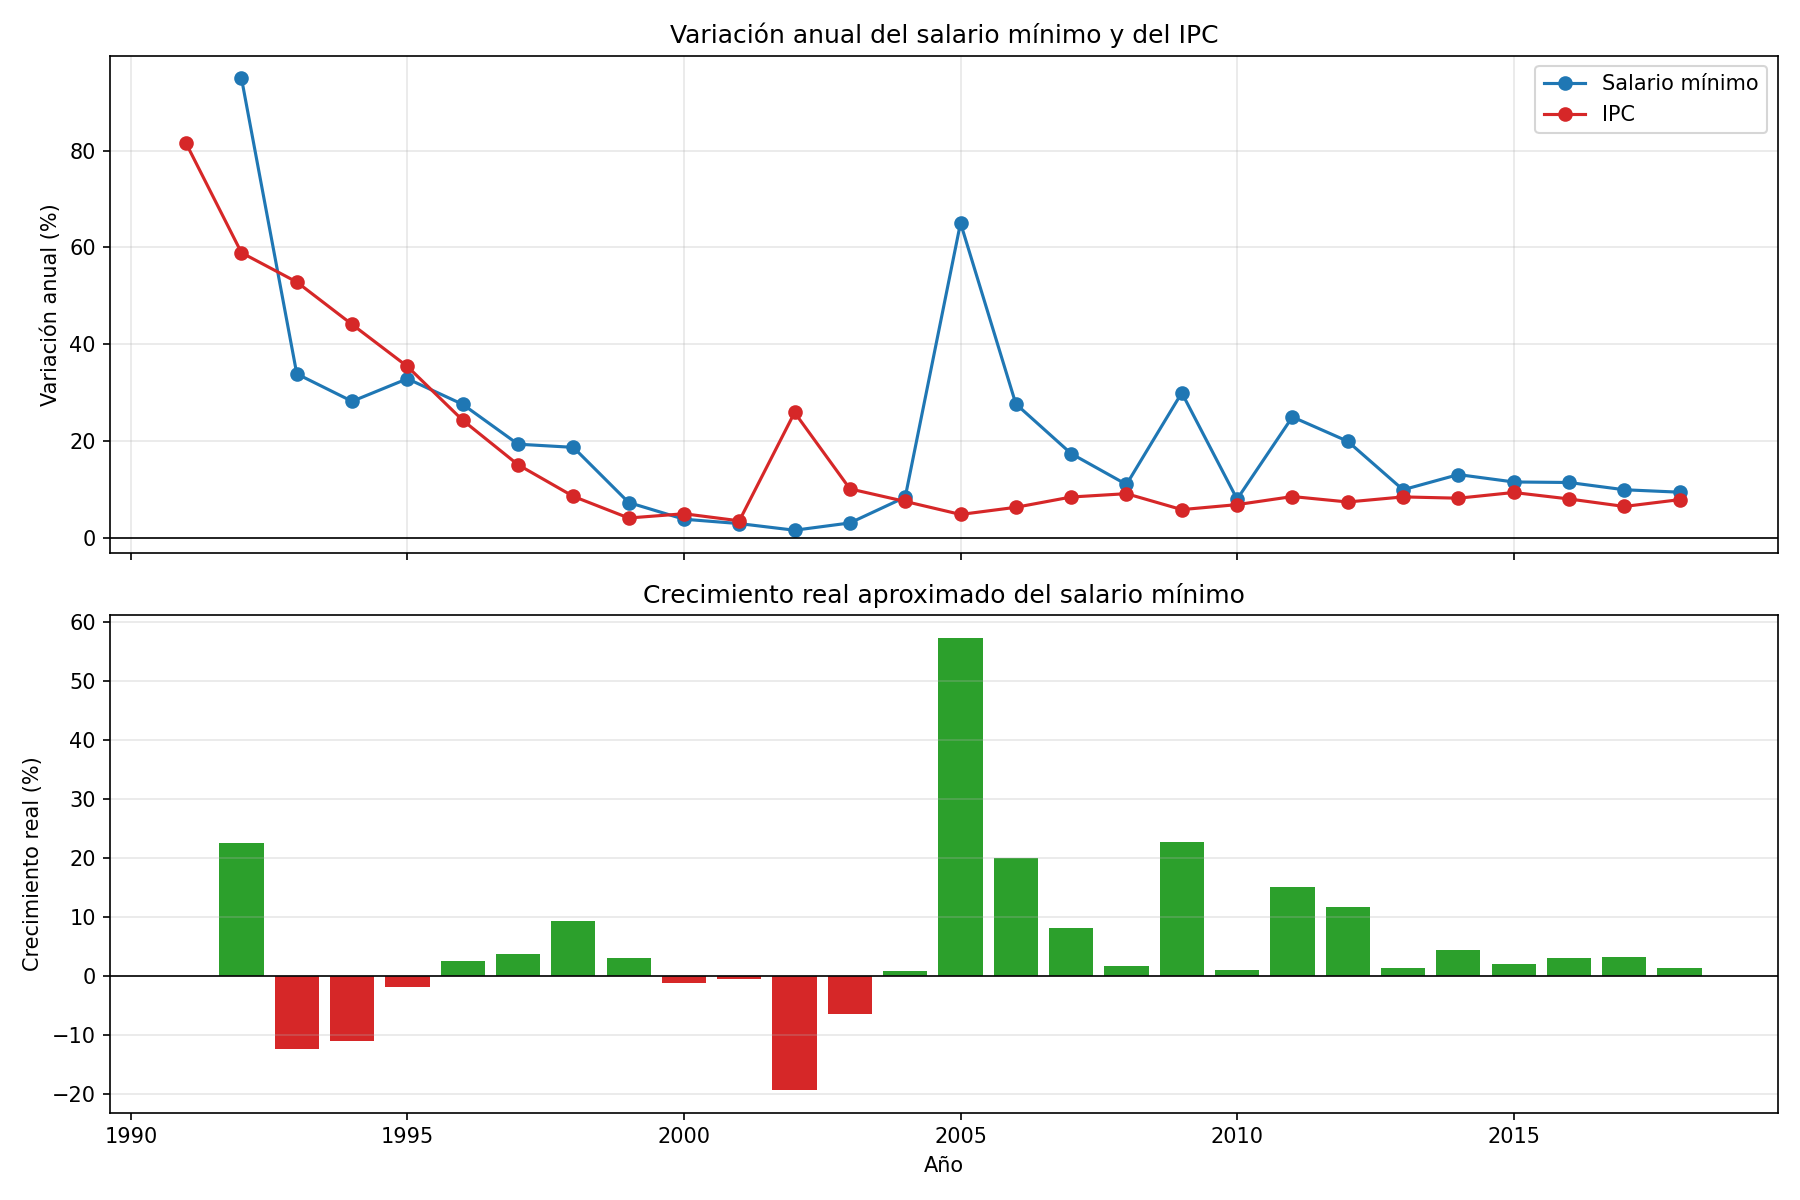
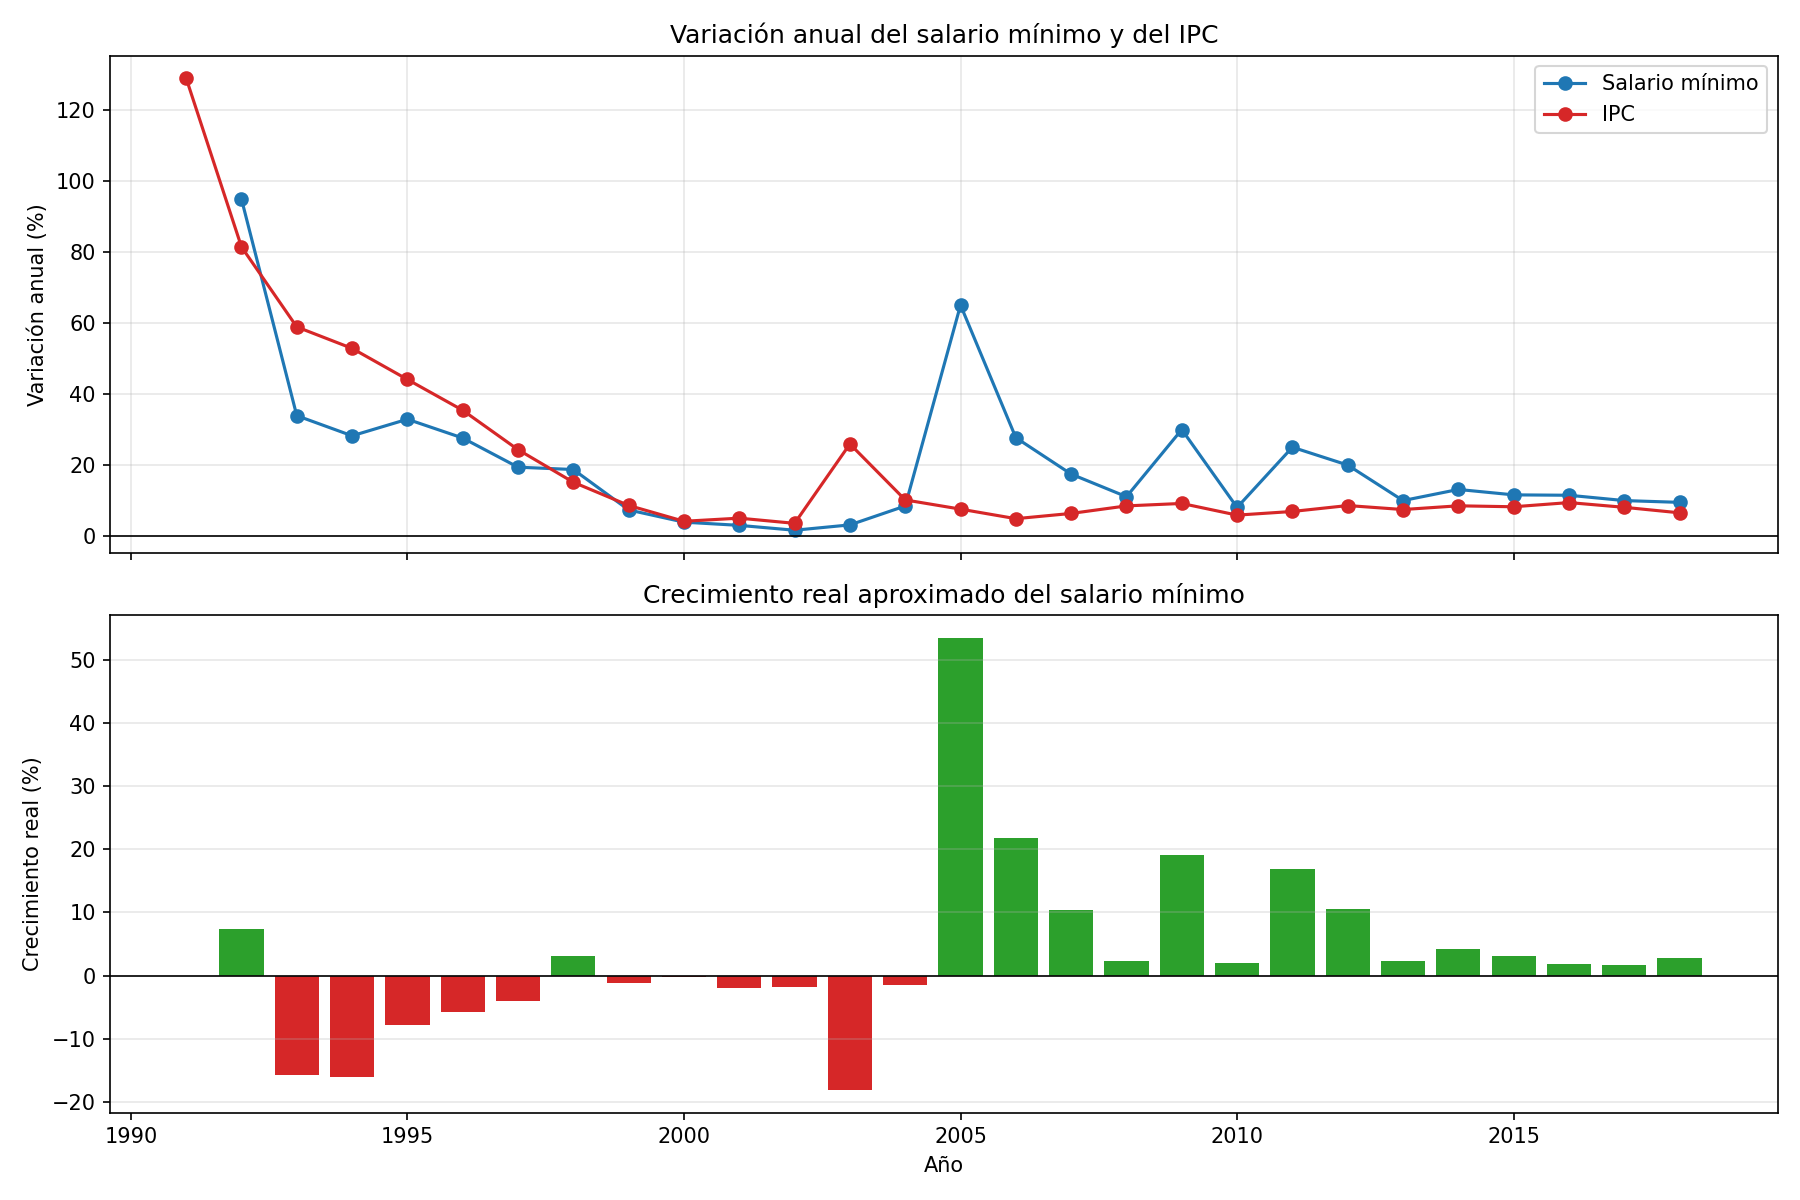
Add Activity 03 documentation and script for analyzing Salario Mínimo and IPC metrics, including data processing steps, results, and limitations

diff --git a/Actividad03/actividad03.py b/Actividad03/actividad03.py
@@ -21,7 +21,6 @@
 # =============================================================================
 
 import re
-from datetime import date
 from pathlib import Path
 
 import pandas as pd
@@ -31,6 +30,7 @@ import matplotlib.pyplot as plt
 RUTA_SALARIO = Path("Actividad02/salario_minimo_clean.parquet")
 RUTA_IPC = Path("Actividad03/IPC gral y variaciones_base 2022.xlsx")
 RUTA_IPC_ANUAL = Path("Actividad03/ipc_anual.parquet")
+RUTA_METRICAS = Path("Actividad03/salario_ipc_metricas.parquet")
 
 
 def numero_uruguayo(valor):
@@ -54,31 +54,6 @@ def numero_uruguayo(valor):
         return float(texto)
     except ValueError:
         return None
-
-
-def extraer_ano(valor):
-    """Obtiene el año desde un año numerico o desde una fecha del Excel."""
-    if pd.isna(valor):
-        return None
-
-    if isinstance(valor, (pd.Timestamp,  date)):
-        return valor.year
-
-    if isinstance(valor, (int, float)) and not isinstance(valor, bool):
-        if 1900 <= valor <= 2100:
-            return int(valor)
-        if 1000 <= valor <= 60000:
-            return pd.to_datetime(
-                valor, unit="D", origin="1899-12-30"
-            ).year
-
-    texto = str(valor).strip()
-    coincidencia = re.search(r"(19|20)\d{2}", texto)
-    if coincidencia:
-        return int(coincidencia.group(0))
-
-    numero = numero_uruguayo(valor)
-    return int(numero) if numero is not None else None
 
 
 def leer_salario_minimo():
@@ -120,9 +95,11 @@ def leer_ipc():
     )
     ipc = ipc.dropna(how="all").copy()
 
-    # El periodo viene como una fecha mensual, por ejemplo 1937-07-01.
+    # El periodo viene como una fecha mensual, por ejemplo 1937-07-01. Al
+    # venir ya como fecha real (no como texto ni como numero serial de
+    # Excel), alcanza con pedirle el año a pandas directamente.
     ipc["periodo"] = pd.to_datetime(ipc["periodo"], errors="coerce")
-    ipc["año"] = ipc["periodo"].map(extraer_ano)
+    ipc["año"] = ipc["periodo"].dt.year
     ipc["indice_general"] = ipc["indice_general"].map(numero_uruguayo)
     ipc["ipc_ultimos_12_meses"] = ipc["ipc_ultimos_12_meses"].map(numero_uruguayo)
 
@@ -206,28 +183,32 @@ def main():
     print(f"Maximo: ${salario['salario_minimo'].max():,.2f}")
     print(f"Promedio: ${salario['salario_minimo'].mean():,.2f}")
 
-    # Se usa una clave textual de cuatro digitos para evitar que diferencias
-    # entre int64, Int64 o valores provenientes de fechas impidan la union.
-    salario["clave_ano"] = salario["año"].astype(str).str.extract(
-        r"((?:19|20)\d{2})", expand=False
-    )
-    ipc["clave_ano"] = ipc["año"].astype(str).str.extract(
-        r"((?:19|20)\d{2})", expand=False
-    )
+    # El salario minimo del indicador 10454 rige desde el 1° de enero de
+    # cada año (ver README de Actividad 2). Su variacion interanual, por
+    # lo tanto, cubre el periodo entre el 1° de enero del año N-1 y el 1°
+    # de enero del año N, es decir: aproximadamente el año calendario N-1
+    # completo. Para comparar peras con peras, hay que usarla contra la
+    # inflacion de ESE mismo periodo (el IPC del año N-1), no contra el
+    # IPC de diciembre del año N, que todavia no habia ocurrido cuando se
+    # fijo el salario de enero de N.
+    #
+    # Por eso, antes de unir, se corre el año del IPC un año hacia
+    # adelante: la fila que en ipc_anual dice "año 1990" (variacion de
+    # precios de dic-1989 a dic-1990) pasa a juntarse con el salario del
+    # "año 1991" (variacion de salario de ene-1990 a ene-1991). Sin este
+    # corrimiento, se estaria comparando el ajuste de salario de enero
+    # contra una inflacion que llega hasta 11-12 meses despues.
+    ipc_comparable = ipc.rename(columns={"año": "año_ipc_base"})
+    ipc_comparable["año"] = ipc_comparable["año_ipc_base"] + 1
 
-    datos = salario.merge(ipc, on="clave_ano", how="inner", suffixes=("_salario", "_ipc"))
-    datos["año"] = datos["año_salario"]
+    datos = salario.merge(ipc_comparable, on="año", how="inner")
     if datos.empty:
-        anos_salario = sorted(salario["clave_ano"].dropna().unique())
-        anos_ipc = sorted(ipc["clave_ano"].dropna().unique())
         raise ValueError(
-            "No hay años en común entre las fuentes. "
-            f"Salario: {salario['año'].min()}-{salario['año'].max()}; "
-            f"IPC: {ipc['año'].min()}-{ipc['año'].max()}. "
-            f"Ejemplos salario: {anos_salario[:5]} ... {anos_salario[-5:]}; "
-            f"ejemplos IPC: {anos_ipc[:5]} ... {anos_ipc[-5:]}"
+            "No hay años en común entre las fuentes tras alinear los "
+            f"periodos. Salario: {salario['año'].min()}-{salario['año'].max()}; "
+            f"IPC (corrido +1 año): {ipc_comparable['año'].min()}-"
+            f"{ipc_comparable['año'].max()}."
         )
-    datos = datos.drop(columns=["clave_ano", "año_salario", "año_ipc"])
     datos["variacion_salario_%"] = datos["salario_minimo"].pct_change() * 100
     datos["crecimiento_real_aprox_%"] = (
         (1 + datos["variacion_salario_%"] / 100)
@@ -235,21 +216,47 @@ def main():
         - 1
     ) * 100
 
-    print("\nDATOS CONECTADOS POR AÑO")
-    print(datos.to_string(index=False))
+    # La tabla completa (con las columnas auxiliares de trabajo, como
+    # "periodo" o "año_ipc_base") se guarda en Parquet en vez de
+    # imprimirse entera en consola: es un dato consultable después, no
+    # algo para leer de corrida en 28 filas x 9 columnas cada vez que se
+    # corre el script. La consola muestra solo el resumen de negocio.
+    datos.to_parquet(RUTA_METRICAS, engine="pyarrow", index=False)
+    print(f"\nTabla conectada (salario + IPC + métricas) guardada en: {RUTA_METRICAS}")
+
     generar_grafica(datos)
 
-    print("\nCONCLUSION")
+    crecimiento_real = datos["crecimiento_real_aprox_%"].dropna()
+    anios_con_dato = len(crecimiento_real)
+    anios_ganancia_real = (crecimiento_real > 0).sum()
+    anios_perdida_real = (crecimiento_real < 0).sum()
+
+    print("\nRESUMEN: CRECIMIENTO REAL DEL SALARIO MINIMO (vs. IPC)")
     print(
-        "La union permite comparar el aumento nominal del salario minimo "
-        "con la variacion anual del IPC. La columna "
-        "'crecimiento_real_aprox_%' estima si el salario crecio por encima "
-        "o por debajo de los precios en cada año compartido."
+        f"Años con dato comparable: {anios_con_dato} "
+        f"({datos['año'].iloc[1]}-{datos['año'].iloc[-1]})"
     )
     print(
-        "Esta es una aproximacion: para medir poder adquisitivo con mayor "
-        "precision habria que usar la fecha exacta de cada ajuste salarial "
-        "y el IPC del mismo periodo."
+        f"Años con ganancia real (creció por encima del IPC): {anios_ganancia_real}"
+    )
+    print(
+        f"Años con pérdida real (el IPC le ganó): {anios_perdida_real}"
+    )
+    print(f"Crecimiento real promedio por año: {crecimiento_real.mean():.2f}%")
+    fila_peor = datos.loc[datos["crecimiento_real_aprox_%"].idxmin()]
+    fila_mejor = datos.loc[datos["crecimiento_real_aprox_%"].idxmax()]
+    print(
+        f"Peor año (real): {int(fila_peor['año'])} "
+        f"({fila_peor['crecimiento_real_aprox_%']:.2f}%)"
+    )
+    print(
+        f"Mejor año (real): {int(fila_mejor['año'])} "
+        f"({fila_mejor['crecimiento_real_aprox_%']:.2f}%)"
+    )
+    print(
+        "\nNota: 'crecimiento real' es una aproximación de calendario "
+        "(ver README, sección Limitaciones), no un ajuste con la fecha "
+        "exacta de cada resolución salarial."
     )
 
 

diff --git a/Actividad03/Actividad03.md b/Actividad03/Actividad03.md
@@ -1,0 +1,114 @@
+# Actividad 03 - Métricas de Salario Mínimo e IPC
+
+Repositorio: <https://github.com/cardo88/UCU-BigData-2026.git>
+
+## Objetivo
+
+Conectar el Salario Mínimo Nacional (SMN) de Uruguay con el Índice de
+Precios al Consumo (IPC) para analizar la evolución nominal del salario y
+una aproximación de su **crecimiento real** año a
+año, algo que la Actividad02 dejó pendiente al trabajar el SMN de forma
+aislada, en pesos corrientes sin ajustar.
+
+## Acciones mínimas de análisis
+
+**Proceso de carga**: Python 3, `pandas`, `pyarrow`, `openpyxl` y
+`matplotlib`, sobre el venv del repo. Se combinan dos fuentes:
+
+- **Salario mínimo**: no se vuelve a leer el XML original — se reutiliza
+  `Actividad02/salario_minimo_clean.parquet` (ya limpio y tipado por la
+  Actividad02), evitando repetir esa lectura/limpieza.
+- **IPC**: archivo oficial del INE, *Series históricas IPC — base octubre
+  2022* (`IPC gral y variaciones_base 2022.xlsx`), IPC general del Total
+  País con serie histórica desde julio de 1937. Es mensual; se resume a un
+  valor por año tomando el último mes disponible de cada año (diciembre en
+  los años completos).
+
+```bash
+source .venv/bin/activate
+python -m pip install pandas pyarrow openpyxl matplotlib
+python Actividad03/actividad03.py
+```
+
+El script (`actividad03.py`) lee ambas fuentes, genera `ipc_anual.parquet`
+(IPC resumido a una fila por año), conecta ambos datasets por año, calcula
+las métricas, guarda el resultado en `salario_ipc_metricas.parquet` y genera
+el gráfico `analisis_salario_ipc.png`.
+
+**Punto clave de calidad de datos — alineación de períodos antes de unir**:
+el salario mínimo rige desde el 1° de enero de cada año, así que su
+variación interanual cubre aproximadamente el año calendario *anterior*
+completo. Compararla directamente contra el IPC de diciembre del mismo año
+compararía el ajuste de salario de enero contra una inflación que en su
+mayoría todavía no había ocurrido. Por eso, antes de unir las tablas, el año
+del IPC se corre un año hacia adelante (columna `año_ipc_base`), de forma
+que cada salario se compare contra la inflación del período que realmente
+lo precedió. `ipc_anual.parquet` se guarda sin este corrimiento, para poder
+inspeccionarlo o reutilizarlo de forma directa; el corrimiento se aplica
+solo al armar la tabla conectada.
+
+**Métrica principal**:
+
+```text
+crecimiento real aproximado =
+((1 + variación del salario) / (1 + variación del IPC) - 1) * 100
+```
+
+Positivo: el salario le ganó a los precios. Negativo: los precios le
+ganaron al salario.
+
+## Resultados
+
+Se calculan mínimo, máximo y promedio histórico del salario mínimo, la
+variación anual del salario y del IPC, y el crecimiento real aproximado por
+año. La tabla completa conectada (28 filas x 9 columnas) queda en
+`salario_ipc_metricas.parquet` — no se imprime entera en consola por ser
+poco legible en una terminal; la consola muestra solo un resumen de
+negocio: cuántos años el salario le ganó o le perdió al IPC, el crecimiento
+real promedio, y el mejor y el peor año del período.
+
+El gráfico (adjunto en esta entrega como `analisis_salario_ipc.png`) tiene
+dos paneles: arriba compara la variación anual del salario mínimo contra la
+del IPC; abajo muestra el crecimiento real aproximado, con barras verdes
+para los años en que el salario creció por encima de la inflación y rojas
+para los años en que perdió poder adquisitivo frente a ella.
+
+## Limitaciones
+
+Es una aproximación a nivel anual, no exacta a nivel de fecha: no usa la
+fecha exacta de cada ajuste salarial (que en la práctica podría no ser
+siempre el 1° de enero) ni el IPC del mes exacto correspondiente. Además,
+la base "octubre 2022 = 100" del IPC es solo una escala de referencia — no
+implica que los precios fueran 100 pesos —, y no afecta a las variaciones
+porcentuales usadas en el análisis.
+
+## Uso de IA como apoyo
+
+Se utilizó asistencia de IA (Claude, Anthropic) para mejorar la redacción
+de este documento y como apoyo en la sintaxis del código. El criterio de
+resolución, la decisión de alinear los períodos antes de conectar los
+datasets, y la interpretación de los resultados son propios.
+
+---
+
+## Anexo
+
+### A. Archivos adjuntos
+
+Junto a este documento se adjunta, en el zip de entrega:
+
+- `analisis_salario_ipc.png`: gráfico referenciado en la sección de
+  Resultados.
+
+### B. Código completo del script
+
+El script no se adjunta en esta entrega — está disponible en el
+repositorio del curso:
+
+- <https://github.com/cardo88/UCU-BigData-2026/blob/main/Actividad03/actividad03.py>
+
+### C. Fuente del IPC
+
+Instituto Nacional de Estadística (INE) — Series históricas IPC, base
+octubre 2022:
+<https://www.gub.uy/instituto-nacional-estadistica/datos-y-estadisticas/estadisticas/series-historicas-ipc-base-octubre-2022100>

diff --git a/Actividad03/README.md b/Actividad03/README.md
@@ -90,13 +90,22 @@ Ese archivo contiene una fila por año y es el que se conecta con
 El script también genera:
 
 ```text
+Actividad03/salario_ipc_metricas.parquet
 Actividad03/analisis_salario_ipc.png
 ```
 
-La imagen tiene dos paneles: arriba compara las variaciones anuales del
-salario mínimo y del IPC; abajo muestra el crecimiento real aproximado del
-salario. Las barras verdes indican crecimiento por encima del IPC y las rojas
-indican pérdida aproximada de poder adquisitivo.
+`salario_ipc_metricas.parquet` es la tabla completa ya conectada (salario,
+IPC, variaciones y crecimiento real por año) — es el resultado final para
+consultar o reutilizar después, y por eso **no** se imprime entera en
+consola (28 filas x 9 columnas no se leen cómodo en una terminal). La
+consola solo muestra un resumen de negocio: cuántos años el salario le ganó
+o le perdió al IPC, el crecimiento real promedio, y el mejor/peor año.
+
+`analisis_salario_ipc.png` tiene dos paneles: arriba compara las
+variaciones anuales del salario mínimo y del IPC; abajo muestra el
+crecimiento real aproximado del salario. Las barras verdes indican
+crecimiento por encima del IPC y las rojas indican pérdida aproximada de
+poder adquisitivo.
 
 ## Cómo se conectan los datos
 
@@ -105,7 +114,27 @@ Para obtener una observación anual, el script ordena los registros por fecha y
 conserva el último mes disponible de cada año, normalmente diciembre. Esto
 permite inspeccionar y reutilizar la transformación sin volver a leer el Excel.
 
-Luego ambas fuentes se unen mediante `año`.
+### Alineación de los períodos antes de unir
+
+El salario mínimo rige desde el **1° de enero** de cada año (ver README de
+Actividad 2). Su variación interanual —`salario[N] / salario[N-1] - 1`— cubre
+entonces el período entre el 1° de enero de `N-1` y el 1° de enero de `N`, es
+decir, aproximadamente el **año calendario `N-1` completo**.
+
+Si esa variación se comparara contra el IPC de diciembre del año `N` (como se
+hacía en una primera versión de este script), se estaría comparando el ajuste
+de salario de enero contra una inflación que en su mayor parte todavía no
+había ocurrido cuando se fijó ese salario. Por eso, antes de unir, el año del
+IPC se corre un año hacia adelante: la fila que en `ipc_anual.parquet` dice
+"año 1990" (variación de precios de diciembre de 1989 a diciembre de 1990) se
+une con el salario del "año 1991" (variación de salario de enero de 1990 a
+enero de 1991), que cubre aproximadamente el mismo período.
+
+`ipc_anual.parquet` se guarda **sin** este corrimiento (con el año real de
+cada observación), para que se pueda inspeccionar o reutilizar de forma
+directa. El corrimiento se aplica únicamente al armar la tabla unida
+(`datos`), donde la columna `año_ipc_base` deja explícito qué año de IPC
+quedó asociado a cada fila.
 
 La métrica principal es:
 
@@ -123,9 +152,11 @@ Interpretación:
 ## Limitaciones
 
 Esta métrica es una aproximación. El salario mínimo de la fuente es anual y
-corresponde al valor legal del año, mientras que el IPC es mensual. Una
-comparación más precisa debería usar la fecha exacta de cada ajuste del salario
-mínimo y el IPC correspondiente al mismo período.
+corresponde al valor legal vigente desde el 1° de enero, mientras que el IPC
+es mensual. El corrimiento de un año descrito arriba alinea los períodos a
+nivel anual, pero sigue siendo una aproximación de calendario: no usa la
+fecha exacta de cada ajuste salarial (que en la práctica podría no ser
+siempre el 1° de enero) ni el IPC del mes exacto correspondiente.
 
 Además, la base octubre 2022 = 100 es solamente una escala de referencia: no
 significa que los precios fueran de 100 pesos. Las variaciones porcentuales no
@@ -138,7 +169,11 @@ dependen de esa escala.
 1. lee `salario_minimo_clean.parquet` de Actividad 2;
 2. lee y normaliza el Excel del IPC;
 3. genera `ipc_anual.parquet`;
-4. calcula las métricas solicitadas;
-5. conecta ambos Parquet por año;
-6. genera la gráfica `analisis_salario_ipc.png`;
-7. muestra la tabla y una conclusión en la consola.
+4. calcula las métricas solicitadas (mínimo, máximo, promedio del salario);
+5. conecta ambos Parquet por año (alineando los períodos, ver arriba) y
+   calcula la variación interanual y el crecimiento real aproximado;
+6. guarda la tabla conectada en `salario_ipc_metricas.parquet`;
+7. genera la gráfica `analisis_salario_ipc.png`;
+8. muestra en consola solo el resumen de negocio (años con ganancia/pérdida
+   real, promedio, mejor y peor año) — la tabla completa queda en el
+   Parquet del punto 6, no se imprime entera.
